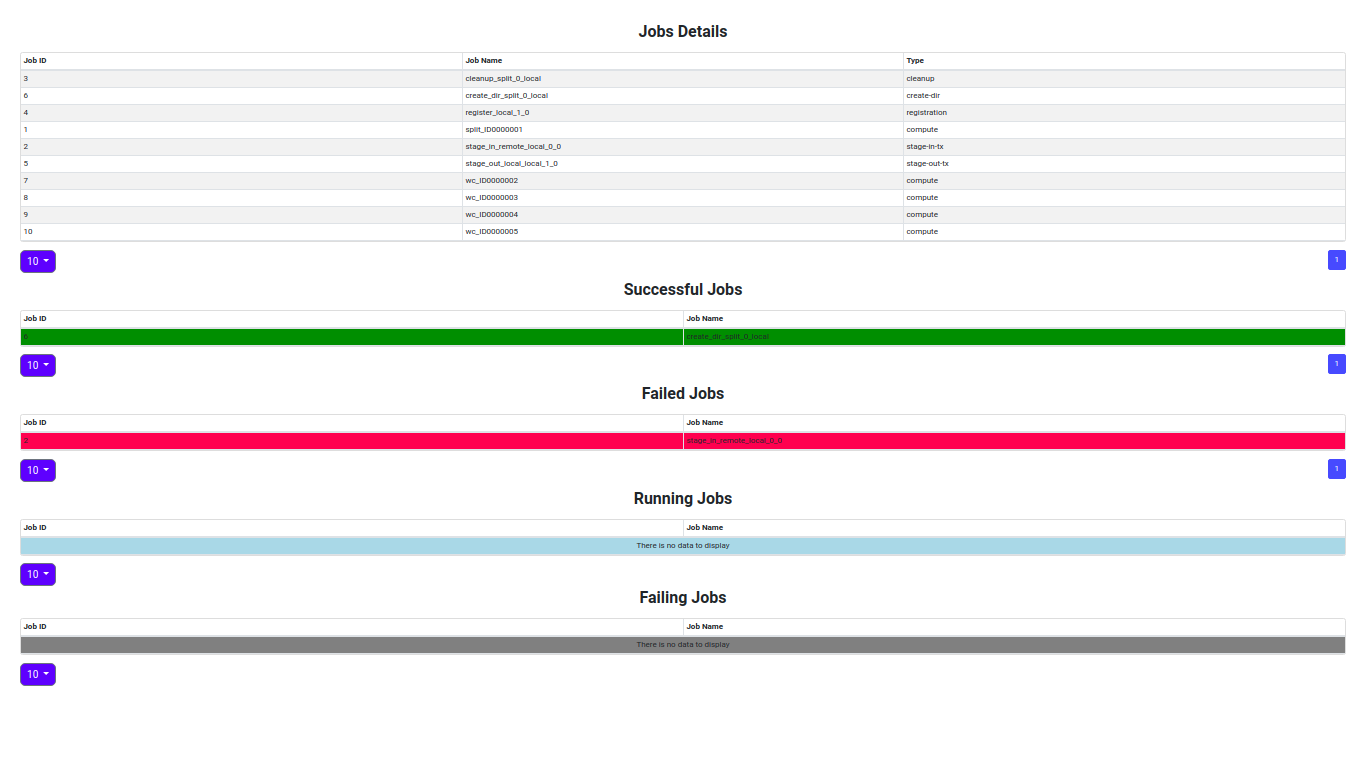
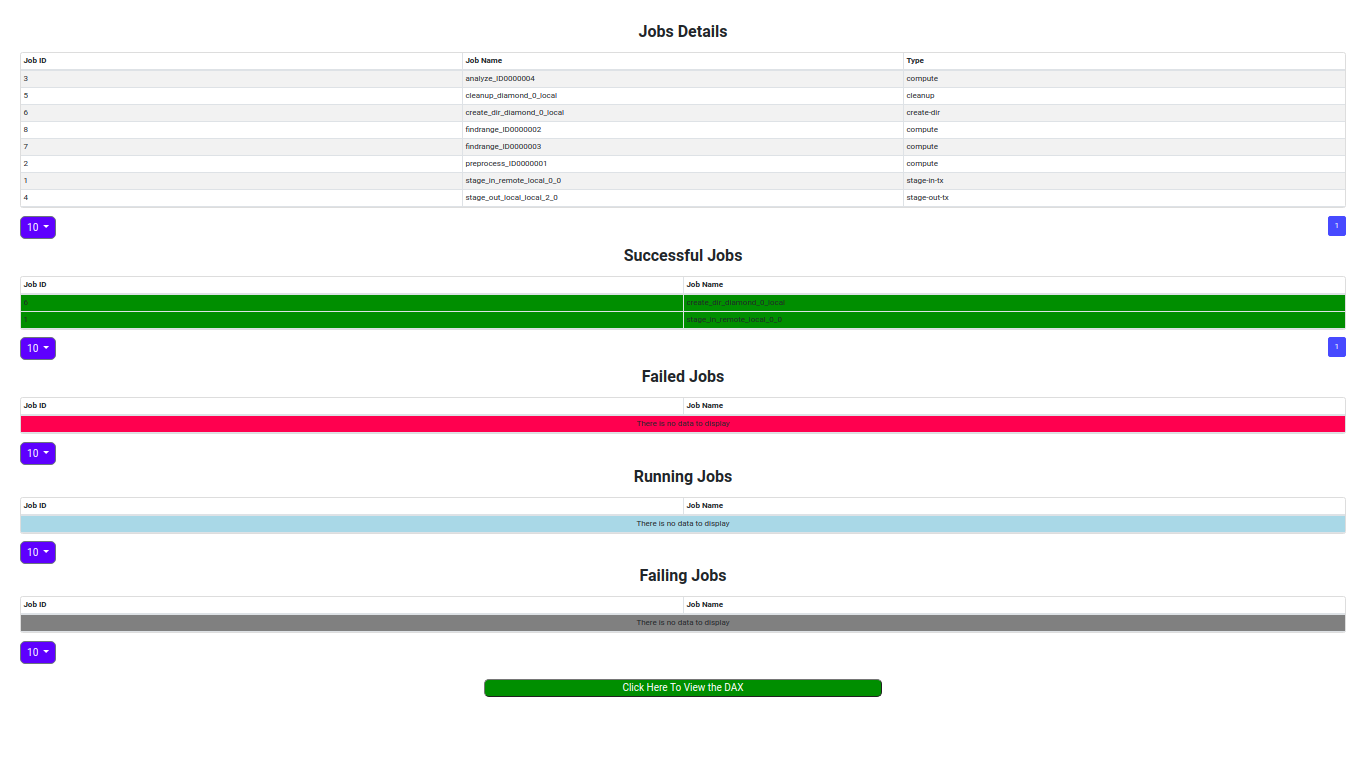
parses the node and edges on server dynamically

diff --git a/web/src/components/WorkflowList/JobList/DAXGraph.js b/web/src/components/WorkflowList/JobList/DAXGraph.js
@@ -1,0 +1,98 @@
+import React from 'react'
+import Graph from 'reactjs-graphs'
+import axios from 'axios'
+
+const onClick = (label, index, extras) => {
+    console.log(label, index, extras)
+}
+ 
+const vertices = [
+    { label: "A", onClick },
+    { label: "B", onClick },
+    { label: "C", onClick },
+    { label: "D", onClick },
+    { label: "E", onClick },
+    { label: "F", onClick },
+    { label: "G", onClick },
+    { label: "H", },
+    { label: "I", },
+    { label: "J", },
+    { label: "K", },
+    { label: "L", },
+    { label: "M", },
+    { label: "N", },
+]
+ 
+const edges = [
+    ["A", "B"],
+    ["B", "C"],
+    ["C", "D"],
+    ["C", "E"],
+    ["C", "F"],
+    ["C", "G"],
+    ["F", "H"],
+    ["E", "H"],
+    ["G", "H"],
+    ["H", "I"],
+    ["H", "J"],
+    ["H", "K"],
+    ["K", "L"],
+    ["J", "L"],
+    ["I", "L"],
+    ["L", "M"],
+    ["L", "N"]
+ ]
+ 
+ 
+class DAXGraph extends React.Component{
+    constructor() {
+        super();
+    this.state = {
+       nodes:[],
+       edges:[]
+      }
+    }
+    componentDidMount() {
+        axios.get('http://localhost:8000/nodes')
+        .then(response => {
+          this.setState({
+            nodes:response.data
+          });
+        })
+        axios.get('http://localhost:8000/edges')
+        .then(response => {
+          this.setState({
+            edges:response.data
+          });
+        })
+    }
+  
+    render(){
+        return(
+            <div>
+            <h3>Work in Progress...This graph is an example from reactjs-graph npm module data.</h3>
+    <Graph 
+        vertices={vertices} 
+        edges={edges} 
+        width={1000} 
+        height={500} 
+        autoWidth={true} 
+        vertexStroke="#df6766" 
+        edgeStroke="#ebb2b2" 
+        edgeWidth={2} 
+        vertexRadius={15} 
+        vertexGap={200} 
+        labelFontSize={20} 
+        activeVertexFill="blue" 
+        inactiveVertexFill="white" 
+        fontFamily="Airbnb Cereal"
+        labelColor="black" 
+        className="className" 
+        centerInCanvas={true}
+/>
+</div>
+)
+
+    }
+}
+export default DAXGraph;

diff --git a/web/server.js b/web/server.js
@@ -10,6 +10,8 @@ app.use(express.json())
 var parser = require("properties-file");
 var base64 = require('base-64');
 var fetch=require('node-fetch');
+var xml2js = require('xml2js');
+var parser = new xml2js.Parser();
 
 //For Patient 1
 var storage = multer.diskStorage({
@@ -345,6 +347,35 @@ app.get('/auth/:wf_id/:state',function(request,response){
           console.log("No Jobs are in the "+state+" state");
         });
   })
+
+
+// parse the dax edges and nodes
+function length(obj) {
+  return Object.keys(obj).length;
+}
+app.get('/nodes',function(req,res){
+  fs.readFile( './TVB_patients/TVB1/configs/dax/main_bnm.dax', function(err, data) {
+      parser.parseString(data, function (err, result) {
+        for(var i=0;i< length (result.adag.child);i++){
+          res.write(result.adag.child[i].$.ref+'\n')
+        }
+        res.end()
+      });
+          });
+      });
+
+app.get('/edges',function(req,res){
+    fs.readFile( './TVB_patients/TVB1/configs/dax/main_bnm.dax', function(err, data) {
+      parser.parseString(data, function (err, result) {
+        for(var i=0;i< length (result.adag.child);i++){
+                for(var j=0;j<length (result.adag.child[i].parent);j++)
+                res.write(result.adag.child[i].$.ref+","+result.adag.child[i].parent[j].$.ref+'\n')
+              }
+              res.end()
+            });
+                });
+              })
+              
 app.listen(8000, function() {
     console.log('App running on port 8000');
 });

diff --git a/web/src/components/WorkflowList/JobList/JobList.js b/web/src/components/WorkflowList/JobList/JobList.js
@@ -18,7 +18,9 @@ function successfulStyle(row) {
   return { backgroundColor: row  ='green'  };
 }
 class JobList extends Component {
-  state = {
+  constructor() {
+    super();
+  this.state = {
     jobs: [],
     successful:[],
     failed:[],
@@ -26,6 +28,14 @@ class JobList extends Component {
     failing:[],
     loading:false
   }
+  this.handleClick = this.handleClick.bind(this);
+}
+
+  handleClick=(event)=>{
+    event.preventDefault();
+    this.props.history.push('/daxgraph');
+  }
+
   componentDidMount() {
     var wf_id=this.props.match.params.jobid
     axios.get('http://localhost:8000/auth/'+wf_id)
@@ -109,7 +119,10 @@ class JobList extends Component {
         <TableHeaderColumn dataField="exec_job_id">Job Name</TableHeaderColumn>
       </BootstrapTable>:
      <div className='spinner'><BeatLoader color={"#00BFFF"}/></div> }
-      </div>
+
+
+    <button className="button_dax" onClick={this.handleClick}>Click Here To View the DAX </button>
+    </div>
     );
   }
 }

diff --git a/web/src/App.js b/web/src/App.js
@@ -5,6 +5,8 @@ import Input from './components/Input/Input';
 import Configuration from './components/Configuration/Configuration'
 import WorkflowList from './components/WorkflowList/WorkflowList';
 import JobList from './components/WorkflowList/JobList/JobList';
+import DAXGraph from './components/WorkflowList/JobList/DAXGraph'
+
 class App extends Component {
   render(){
     return (
@@ -13,6 +15,9 @@ class App extends Component {
         <Switch>
           <Route path="/jobList/:jobid">
             <JobList />
+          </Route>
+          <Route path="/daxgraph">
+            <DAXGraph />
           </Route>
           <Route path="/workflowList">
             <WorkflowList />

diff --git a/web/src/components/WorkflowList/JobList/JobList.css b/web/src/components/WorkflowList/JobList/JobList.css
@@ -6,10 +6,20 @@
 .job_table{
     padding: 40px;
 }
-
 .spinner{
     display: flex;
     align-self: center;
     justify-content: center;
     
+}
+.button_dax{
+    font-size: 20px;
+    background-color:green;
+    color: white;
+    border-radius: 10px;
+    width: 30%;
+    margin-left: 35%;
+    margin-right: 35%;
+    margin-top:30px;
+    cursor: pointer
 }
